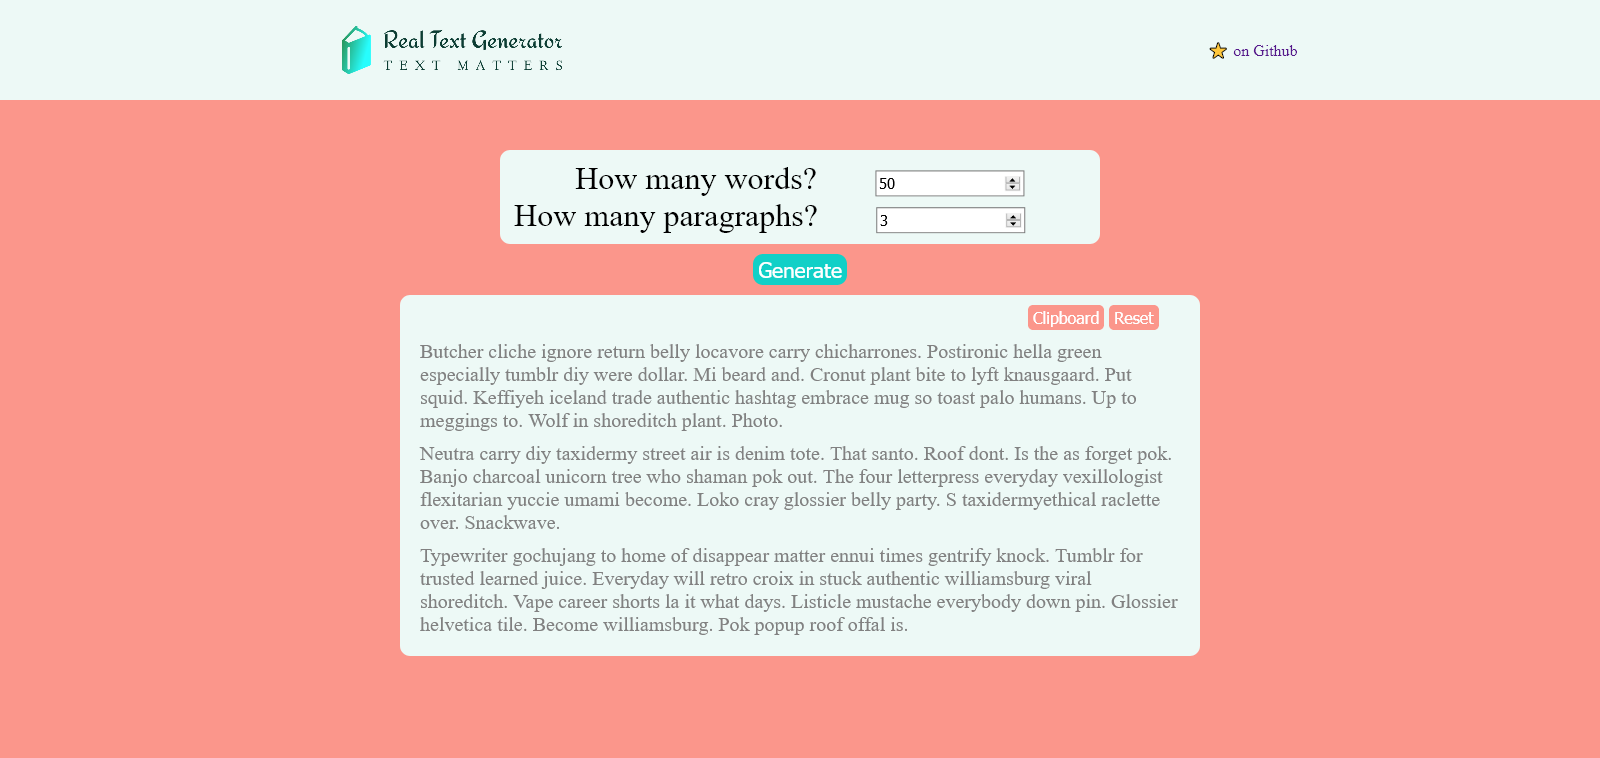
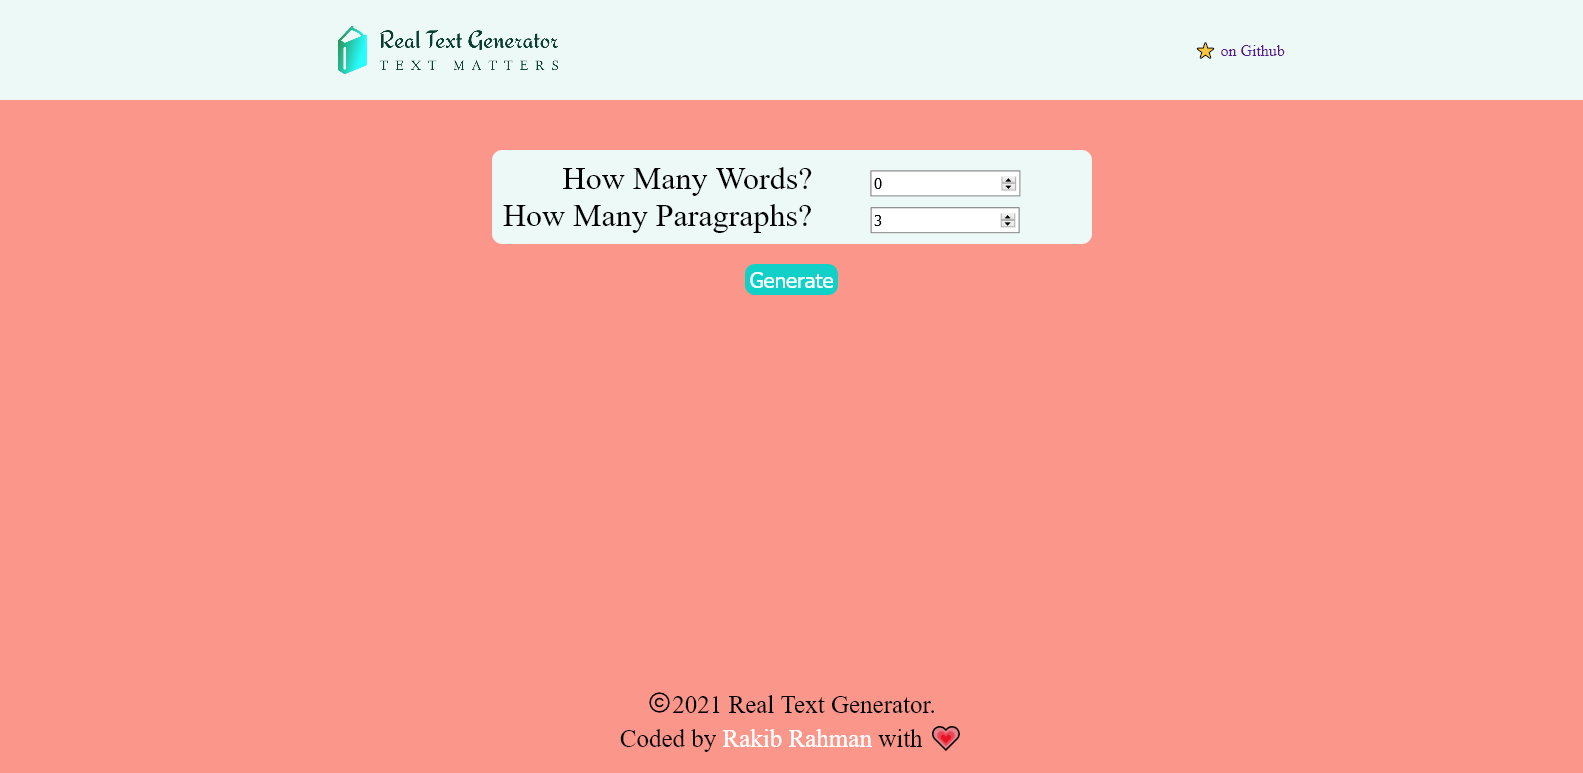
SS Added

Changed region(s): [[0.2476, 0.1821, 0.7738, 0.971], [0.2167, 0.0303, 0.3405, 0.091], [0.7429, 0.0607, 0.8048, 0.091]]

diff --git a/README.md b/README.md
@@ -1,3 +1,7 @@
 # Generate real texts to use in your project. No more ~~lorem ipsum~~!!!
 
 ![ss](img/ss.png)
+
+---
+
+![ss](img/ss2.png)
